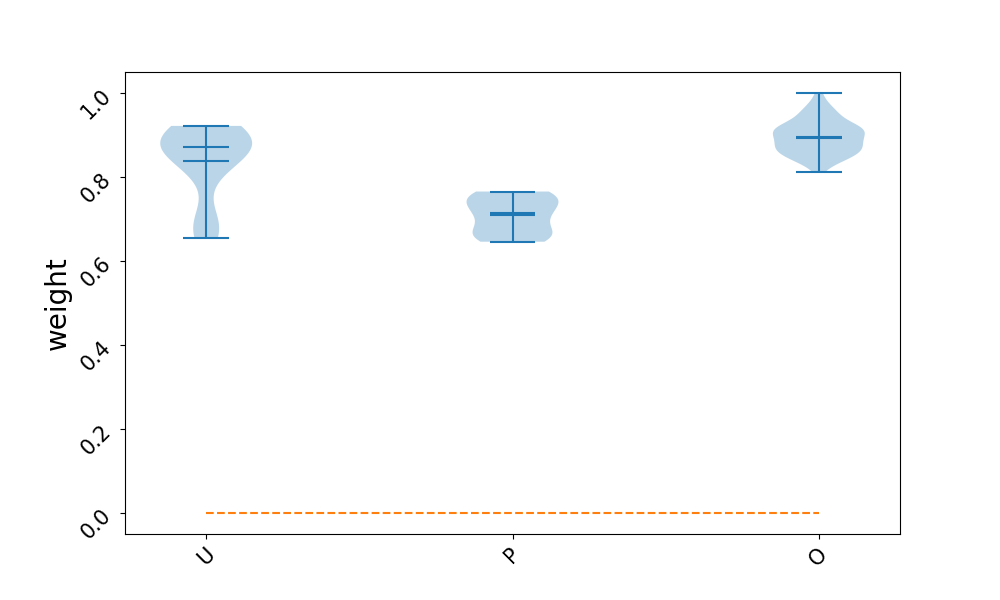
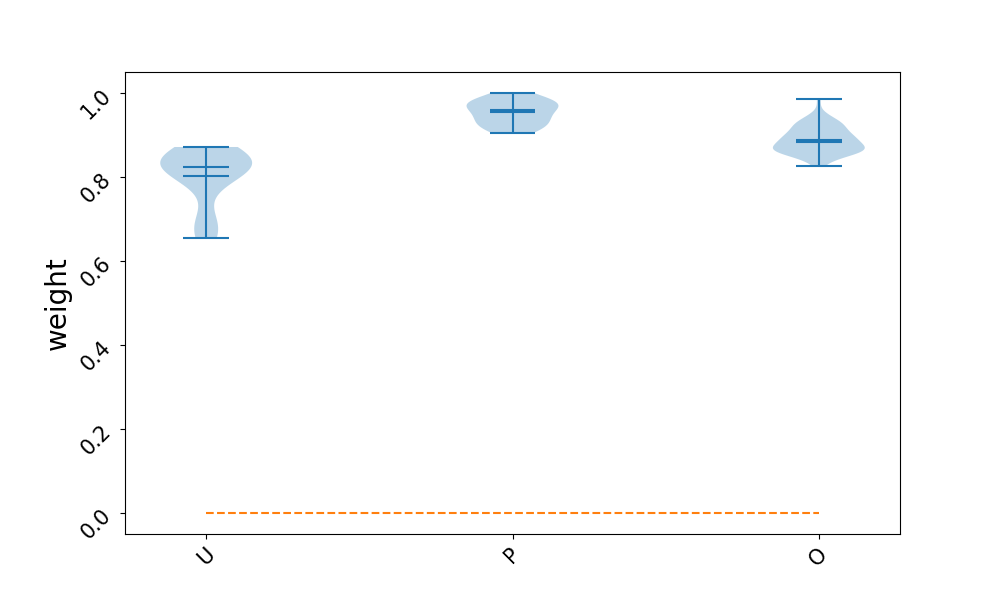
Modify normalization function

diff --git a/run_weight.py b/run_weight.py
@@ -145,7 +145,7 @@ def run(structure):
 
     min = po_ana.min()
     max = po_ana.max()
-    po_norm = (po_ana - min) / (max - min)
+    po_norm = -((po_ana - min) / (max - min) - 1)
     #po_sigmoid = np.exp(-po_ana/abs(np.min(po_ana))) / np.sum(np.exp(-po_ana/abs(np.min(po_ana))))
 
     dist_plot(structure, po_ana)
